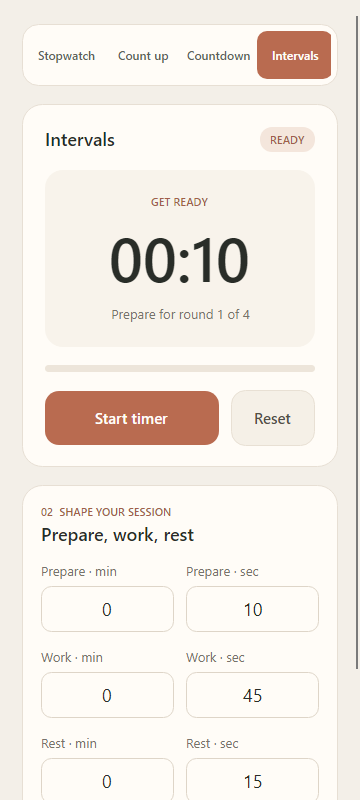
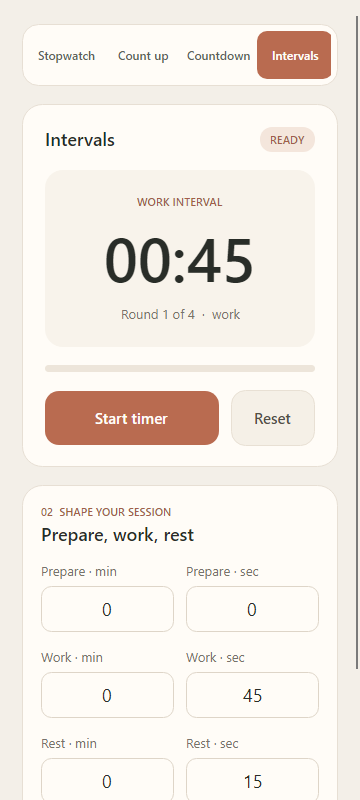
Default preparation interval to zero

Changed region(s): [[0.275, 0.25, 0.7028, 0.4062], [0.6722, 0.75, 0.7333, 0.7812]]

diff --git a/Timer.App.Tests/MainViewModelTests.cs b/Timer.App.Tests/MainViewModelTests.cs
@@ -78,14 +78,11 @@ public sealed class MainViewModelTests
         Assert.IsTrue(viewModel.IsIntervalsSelected);
         Assert.AreEqual(3, viewModel.SelectedModeIndex);
         Assert.AreEqual("READY", viewModel.StatusLabel);
-        Assert.AreEqual("00:10", viewModel.DisplayTime);
-        Assert.AreEqual("GET READY", viewModel.PhaseLabel);
-        Assert.AreEqual("Prepare for round 1 of 4", viewModel.DetailLabel);
-        Assert.IsTrue(viewModel.CanEditSettings);
-
-        viewModel.PreparationSeconds = "0";
+        Assert.AreEqual("0", viewModel.PreparationSeconds);
         Assert.AreEqual("00:45", viewModel.DisplayTime);
         Assert.AreEqual("WORK INTERVAL", viewModel.PhaseLabel);
+        Assert.AreEqual("Round 1 of 4  ·  work", viewModel.DetailLabel);
+        Assert.IsTrue(viewModel.CanEditSettings);
 
         viewModel.SelectCountdownCommand.Execute(null);
         Assert.AreEqual(2, viewModel.SelectedModeIndex);

diff --git a/Timer/ViewModels/MainViewModel.cs b/Timer/ViewModels/MainViewModel.cs
@@ -44,7 +44,7 @@ public partial class MainViewModel : ViewModelBase
     [ObservableProperty] private string _durationMinutes = "0";
     [ObservableProperty] private string _durationSeconds = "0";
     [ObservableProperty] private string _preparationMinutes = "0";
-    [ObservableProperty] private string _preparationSeconds = "10";
+    [ObservableProperty] private string _preparationSeconds = "0";
     [ObservableProperty] private string _workMinutes = "0";
     [ObservableProperty] private string _workSeconds = "0";
     [ObservableProperty] private string _restMinutes = "0";

diff --git a/tools/Timer.Preview/Program.cs b/tools/Timer.Preview/Program.cs
@@ -66,6 +66,9 @@ switch (args[0].ToLowerInvariant())
         viewModel.SelectCountdownCommand.Execute(null);
         break;
     case "intervals":
+        viewModel.WorkSeconds = "45";
+        viewModel.RestSeconds = "15";
+        viewModel.Rounds = "4";
         viewModel.SelectIntervalsCommand.Execute(null);
         break;
     default:
